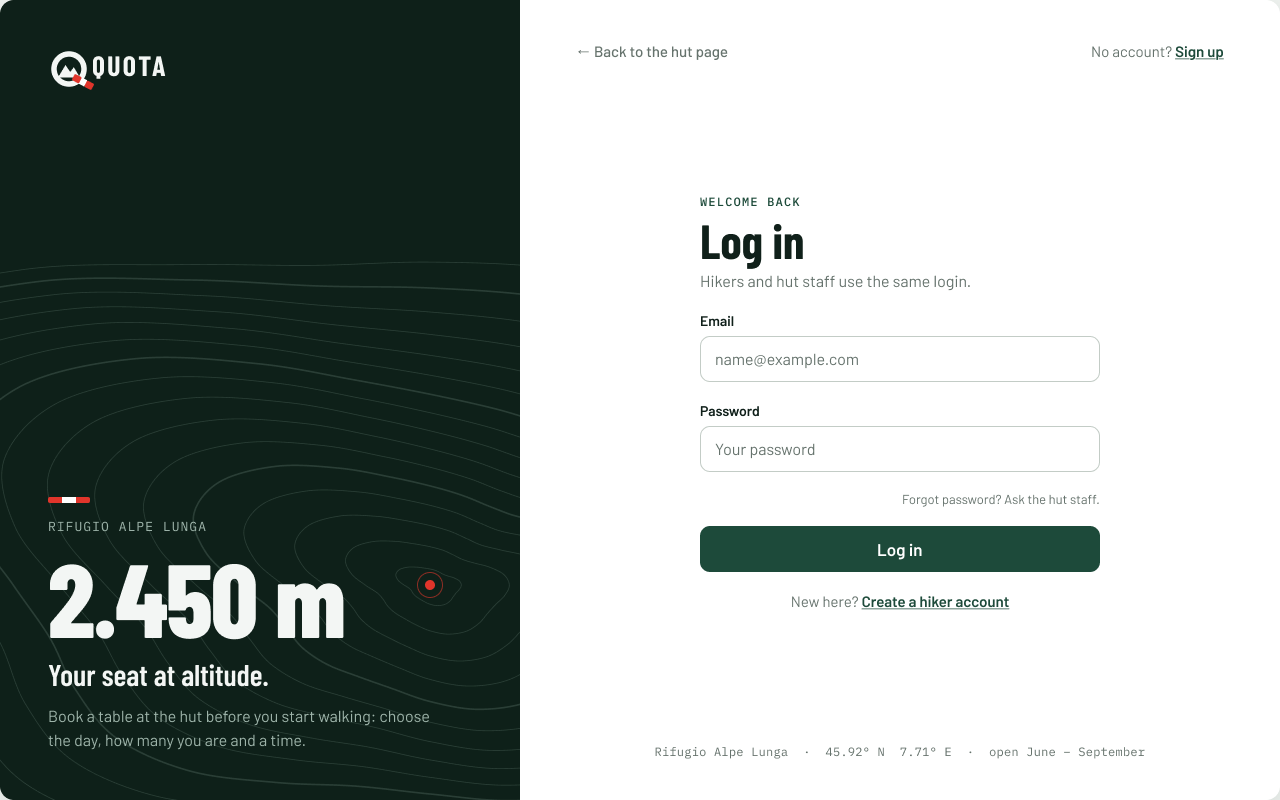
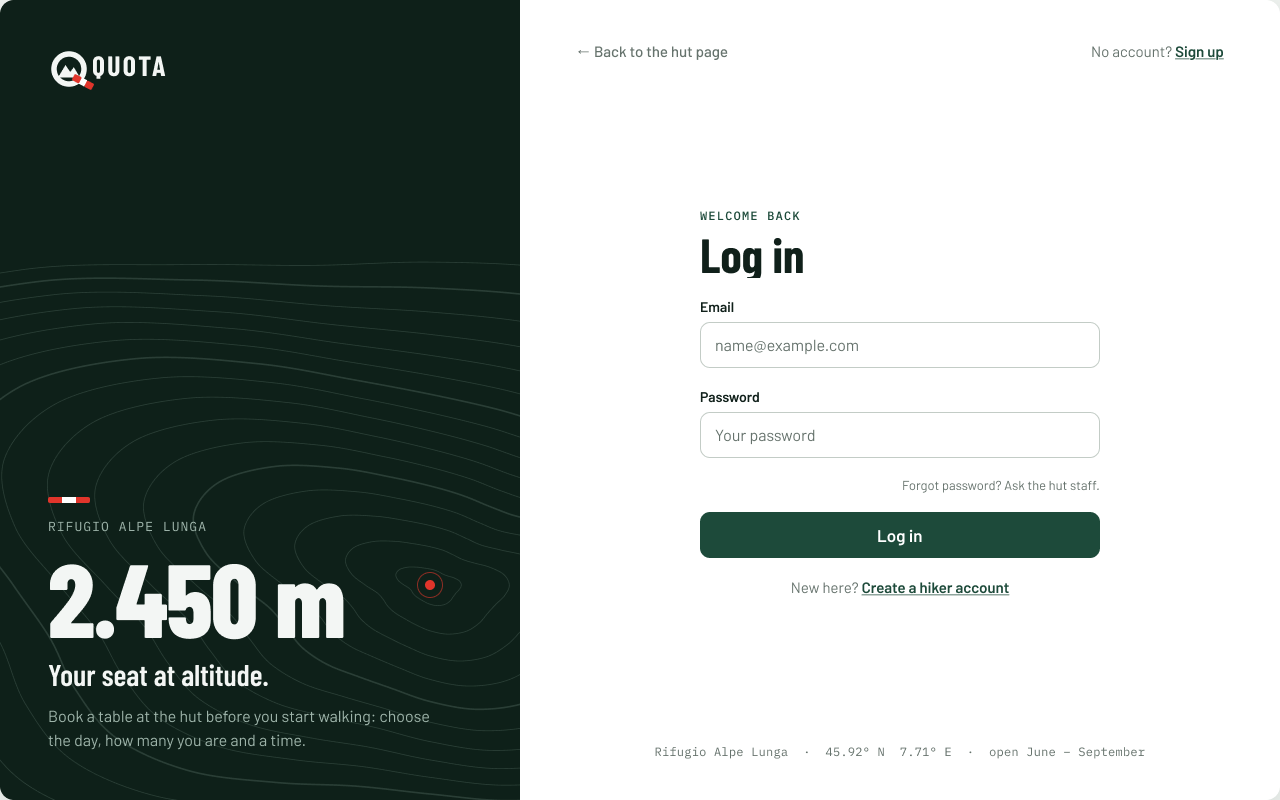
docs: remove the same-login sentence from the login mockup (MH-45)
Review of #8: the sentence did not help hikers. Also explains in the
README why screen 4 shows the blue note.

Changed region(s): [[0.5312, 0.5938, 0.875, 0.7812], [0.5312, 0.25, 0.75, 0.5938]]

diff --git a/docs/mockups/login/phone.html b/docs/mockups/login/phone.html
@@ -166,7 +166,7 @@ const field = ({ label, req, ph, val, err, help, focus }) => `<div class="field 
 const foot = `<div class="foot"><span class="back">← Back to the hut page</span><span class="coords">45.92° N 7.71° E<br>open June – September</span></div>`;
 
 const login = ({ alert, email = {}, password = {}, busy }) => `${status()}${urlbar("/login")}${hero("No account? <b>Sign up</b>")}<div class="form">
-  <div class="eyebrow">Welcome back</div><h1>Log in</h1><p class="sub">Hikers and hut staff use the same login.</p>${alert || ""}
+  <div class="eyebrow">Welcome back</div><h1 style="margin-bottom:20px">Log in</h1>${alert || ""}
   ${field({ label: "Email", ph: "name@example.com", ...email })}${field({ label: "Password", ph: "Your password", ...password })}
   <div class="forgot">Forgot password? Ask the hut staff.</div>
   <button class="btn primary ${busy ? "busy" : ""}">${busy ? '<i class="spinner"></i>Logging in…' : "Log in"}</button>

diff --git a/docs/mockups/login/README.md b/docs/mockups/login/README.md
@@ -59,6 +59,7 @@ The same website opened in a phone browser, not a separate app: the React pages 
 - **One login for every role.** Hikers, employees and the manager log in on the same page with email and password. *Manager* is the name the app shows for the role the stories call *warden*.
 - **Only hikers sign up.** Employee and manager accounts are created by the team (seed data in sprint 1). A hiker created by an employee over the phone is MH-7, not this page.
 - **After login:** a hiker goes to *Book a table*; an employee or the manager goes to *Slots & tables*. If the user came from a protected page (screen 4), send them back there instead.
+- **The blue note on screen 4** ("Log in to book a table.") is shown only when a user who is not logged in opens a protected page and is sent to the login. It says why they landed on the login instead of the page they clicked; without it the jump looks like an error. Opening the login page directly shows no note.
 - **After sign-up:** the hiker is logged in straight away and goes to *Book a table*.
 - **No password reset in sprint 1:** the login page says "Forgot password? Ask the hut staff."
 - **Log out** is in the navbar for every role and goes back to the public hut page.
